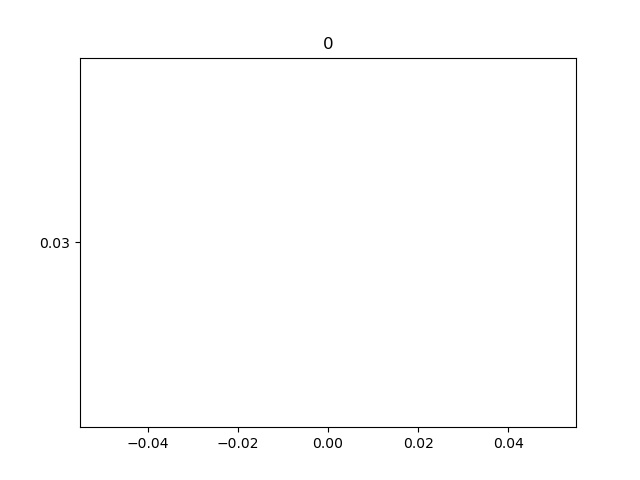
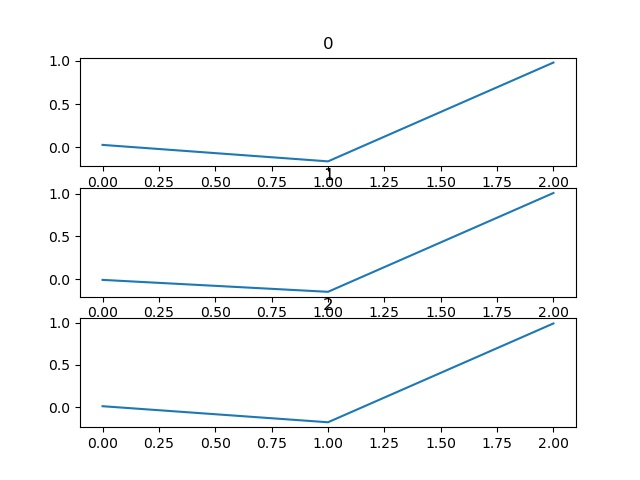
tested version of visualize up

diff --git a/visualize_data_TTT.py b/visualize_data_TTT.py
@@ -2,7 +2,7 @@
 import csv
 import matplotlib.pyplot as plt
 
-input_file = "1_col.csv"
+input_file = "1_col_3d.csv"
 value_delimiter = ','
 has_header = False
 has_index = False
@@ -11,7 +11,7 @@ save_to = "test.jpeg"
 def intake(file_in,value_delimiter,has_header,has_index):
 	#Read data in
 	with open(file_in) as csvfile:
-		csvreader = list(csv.reader(csvfile, delimiter=value_delimiter))
+		csvreader = list(csv.reader(csvfile, delimiter=value_delimiter,quotechar="'"))
 		
 		if has_header:
 			headers = csvreader[0]
@@ -20,19 +20,18 @@ def intake(file_in,value_delimiter,has_header,has_index):
 			headers = [i for i in range(len(csvreader[0]))]
 		
 		if has_index:
-			dataset = [row[1:] for row in csvreader]
+			dataset = [[float(val) for val in row[1:]] for row in csvreader]
 			headers = headers[1:]
 		else:
-			dataset = [row for row in csvreader]
+			dataset = [[float(val) for val in row] for row in csvreader]
 
 	return dataset, headers
 
 def multi_plots(dataset,headers,save_to=""):
 	plt.figure()
 	if len(headers) <= 1:
-		plt.subplot(sub_id)
-		plt.title(subplot_name)
-		plt.plot(dataset[:][nbr])
+		plt.title(headers[0])
+		plt.plot(dataset)
 	for nbr,subplot_name in enumerate(headers):
 		print(dataset[:][nbr])
 		sub_id = int(str(len(headers))+'1'+str(nbr+1))
